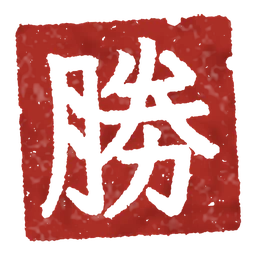
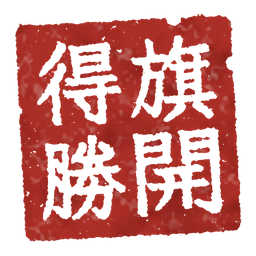
feat(art): 朱砂印由單字改為 2–4 字詞語
- build_ink_stamps.py：支援三字／四字印版式（右行先讀，四字田字格）；25 款印重出
- inkAssets：印鍵 → 印面詞語（SEALS、sealPhrase），無障礙文字讀出詞語
- 新印鍵「破」（境界突破：更上層樓）、「傷」（重傷：傷筋動骨）
- 特效時刻／突破印放大以容納四字
- tests：核對產生器同 inkAssets 詞語一致、字數 2–4

Story: 印章詞語化（用戶要求：減少 AI 感）

Claude-Session: https://claude.ai/code/session_01GsCU8xUdSu1ojNzfMHx3eE

Changed region(s): [[0.125, 0.125, 0.875, 0.875]]

diff --git a/src/ui/inkAssets.ts b/src/ui/inkAssets.ts
@@ -14,43 +14,53 @@ export function inkArtUrl(pathUnderInk: string): string {
   return `${base}ink/${cleaned}?v=art1`;
 }
 
-/** 印文 → 檔名 id（`public/ink/art/seals/seal-{id}.webp`） */
-const SEAL_ID_BY_TEXT: Readonly<Record<string, string>> = {
-  生: 'sheng',
-  終: 'zhong',
-  緣: 'yuan',
-  江湖: 'jianghu',
-  招: 'zhao',
-  勝: 'sheng-win',
-  命: 'ming',
-  危: 'wei',
+/**
+ * 印鍵（store 嘅 sealText／各元件用嘅一字代號）→ 印面詞語（2–4 字）＋檔名 id。
+ * 印面係完整詞語，唔再係單字（`scripts/art/build_ink_stamps.py` SEALS 同步）。
+ */
+const SEALS: Readonly<Record<string, { id: string; phrase: string }>> = {
+  生: { id: 'sheng', phrase: '人生初度' },
+  終: { id: 'zhong', phrase: '塵緣已了' },
+  緣: { id: 'yuan', phrase: '緣定三生' },
+  江湖: { id: 'jianghu', phrase: '笑傲江湖' },
+  招: { id: 'zhao', phrase: '一氣呵成' },
+  勝: { id: 'sheng-win', phrase: '旗開得勝' },
+  命: { id: 'ming', phrase: '命懸一線' },
+  危: { id: 'wei', phrase: '險象環生' },
   // 落印全集（store slices 嘅 sealText）
-  定: 'ding',
-  劍: 'jian',
-  戰: 'zhan',
-  敗: 'bai',
-  武: 'wu',
-  遁: 'dun',
-  宗: 'zong',
-  收: 'shou',
-  教: 'jiao',
-  晉: 'jin',
-  月: 'yue',
-  煉: 'lian',
-  裝: 'zhuang',
-  // 部位傷勢
-  殘: 'can',
-  癒: 'yu',
+  定: { id: 'ding', phrase: '落子無悔' },
+  劍: { id: 'jian', phrase: '華山論劍' },
+  戰: { id: 'zhan', phrase: '狹路相逢' },
+  敗: { id: 'bai', phrase: '技不如人' },
+  武: { id: 'wu', phrase: '得窺門徑' },
+  遁: { id: 'dun', phrase: '全身而退' },
+  宗: { id: 'zong', phrase: '開宗立派' },
+  收: { id: 'shou', phrase: '廣納門徒' },
+  教: { id: 'jiao', phrase: '傳道授業' },
+  晉: { id: 'jin', phrase: '聲名鵲起' },
+  月: { id: 'yue', phrase: '歲月如流' },
+  煉: { id: 'lian', phrase: '精益求精' },
+  裝: { id: 'zhuang', phrase: '披掛上陣' },
+  // 特效時刻
+  破: { id: 'po', phrase: '更上層樓' },
+  傷: { id: 'shang', phrase: '傷筋動骨' },
+  殘: { id: 'can', phrase: '傷及根本' },
+  癒: { id: 'yu', phrase: '妙手回春' },
 };
 
-/** 已有位圖的印文 */
-export const INK_SEAL_TEXTS = Object.keys(SEAL_ID_BY_TEXT);
+/** 已有位圖的印鍵 */
+export const INK_SEAL_TEXTS = Object.keys(SEALS);
 
-/** 印文 → 朱砂印 WebP URL；無對應則回 null（呼叫端沿用 CSS 字印） */
+/** 印鍵 → 朱砂印 WebP URL；無對應則回 null（呼叫端沿用 CSS 字印） */
 export function sealUrlForText(text: string | null | undefined): string | null {
   if (!text) return null;
-  const id = SEAL_ID_BY_TEXT[text];
-  return id ? inkArtUrl(`art/seals/seal-${id}.webp`) : null;
+  const seal = SEALS[text];
+  return seal ? inkArtUrl(`art/seals/seal-${seal.id}.webp`) : null;
+}
+
+/** 印鍵 → 印面詞語（無障礙文字用）；無對應回原字 */
+export function sealPhrase(text: string): string {
+  return SEALS[text]?.phrase ?? text;
 }
 
 /** 戰鬥用印（連招／勝／命懸／危） */

diff --git a/tests/inkSilhouettes.test.ts b/tests/inkSilhouettes.test.ts
@@ -1,4 +1,4 @@
-import { existsSync } from 'node:fs';
+import { existsSync, readFileSync } from 'node:fs';
 import { describe, expect, it } from 'vitest';
 import {
   FOE_SILHOUETTE_KEYS,
@@ -49,6 +49,21 @@ describe('seal coverage', () => {
     }
     for (const t of INK_SEAL_TEXTS) {
       expect(existsSync(fileOf(sealUrlForText(t)!)), t).toBe(true);
+    }
+  });
+
+  it('seal phrases are 2–4 chars and match the generator script', async () => {
+    const { sealPhrase, sealUrlForText, INK_SEAL_TEXTS } = await import('../src/ui/inkAssets');
+    const script = readFileSync('scripts/art/build_ink_stamps.py', 'utf8');
+    const generated = new Map(
+      [...script.matchAll(/\("([\w-]+)", "([^"]+)", "(?:zhuwen|baiwen)"/g)].map((m) => [m[1], m[2]] as const),
+    );
+    for (const t of INK_SEAL_TEXTS) {
+      const phrase = sealPhrase(t);
+      expect([...phrase].length, t).toBeGreaterThanOrEqual(2);
+      expect([...phrase].length, t).toBeLessThanOrEqual(4);
+      const id = sealUrlForText(t)!.match(/seal-([\w-]+)\.webp/)![1]!;
+      expect(generated.get(id), t).toBe(phrase);
     }
   });
 });

diff --git a/src/components/ink/InkDecor.tsx b/src/components/ink/InkDecor.tsx
@@ -1,6 +1,6 @@
 /** 宣紙底圖、朱砂印、事件橫幅 — 全為 WebP 位圖（無 SVG 手繪） */
 import type { InkPlace, InkSeason } from './sceneVariants';
-import { sealUrlForText } from '../../ui/inkAssets';
+import { sealPhrase, sealUrlForText } from '../../ui/inkAssets';
 import { inkAiUrl } from '../../ui/inkAiCatalog';
 
 /** 裝飾用位圖：外層 span 承接尺寸／動畫 class，內層 img 撐滿 */
@@ -68,7 +68,7 @@ export function InkSealStamp({
   return (
     <div className="ink-seal-overlay" onAnimationEnd={() => onDone?.()} aria-live="polite">
       {sealSrc ? (
-        <img className="ink-seal-stamp ink-seal-stamp--img" src={sealSrc} alt={text} decoding="async" />
+        <img className="ink-seal-stamp ink-seal-stamp--img" src={sealSrc} alt={sealPhrase(text)} decoding="async" />
       ) : (
         <span className="ink-seal-stamp">{text}</span>
       )}

diff --git a/src/components/ink/InkMomentFx.tsx b/src/components/ink/InkMomentFx.tsx
@@ -62,7 +62,7 @@ function viewOf(m: LifeMoment): View {
         return { variant: 'toast', kicker: '輕傷', name: part, sub: effect, seal: '', lifeMs: 1800 };
       }
       if (m.tier === 'heavy') {
-        return { variant: 'wound', kicker: '身受重傷', name: `${part}重傷`, sub: effect, seal: '危', lifeMs: 1800 };
+        return { variant: 'wound', kicker: '身受重傷', name: `${part}重傷`, sub: effect, seal: '傷', lifeMs: 1800 };
       }
       return {
         variant: 'wound',

diff --git a/src/components/ink/InkBreakthroughModal.tsx b/src/components/ink/InkBreakthroughModal.tsx
@@ -20,7 +20,7 @@ export function InkBreakthroughModal({ result, onClose }: Props) {
   const cls = (base: string, stillCls?: string) => stillClassName(base, stillCls, still);
   const ok = result.success;
   const bigText = ok ? (result.newTierName ?? result.oldTierName) : '走火入魔';
-  const seal = sealUrlForText(ok ? '晉' : '危');
+  const seal = sealUrlForText(ok ? '破' : '危');
 
   useEffect(() => {
     const onKey = (e: KeyboardEvent) => {

diff --git a/src/styles.css b/src/styles.css
@@ -6806,10 +6806,10 @@ html[data-ink-motion='reduce'] .ink-combat-slash {
 /* 落印：寫完字先蓋 */
 .ink-moment__seal {
   position: absolute;
-  right: -18px;
-  bottom: -14px;
-  width: 64px;
-  height: 64px;
+  right: -26px;
+  bottom: -20px;
+  width: 80px;
+  height: 80px;
   animation: sealPress var(--motion-slow) var(--ease-stamp) calc(var(--motion-base) + var(--motion-slow)) both;
 }
 

diff --git a/src/components/ink/InkBreakthroughModal.module.css b/src/components/ink/InkBreakthroughModal.module.css
@@ -207,10 +207,10 @@
 /* 印：大字寫完先壓落，留喺字腳 */
 .seal {
   position: absolute;
-  right: -58px;
-  bottom: -6px;
-  width: 58px;
-  height: 58px;
+  right: -76px;
+  bottom: -10px;
+  width: 72px;
+  height: 72px;
   animation: bkSealPress var(--motion-slow) var(--ease-stamp) calc(var(--motion-base) + var(--motion-slow)) both;
 }
 

diff --git a/scripts/art/build_ink_stamps.py b/scripts/art/build_ink_stamps.py
@@ -79,7 +79,8 @@ def roughen(mask: Image.Image, rng: random.Random, amount: float, blur: float = 
 
 
 def glyph_mask(font_path: str, text: str, box: tuple[int, int, int, int], weight: int = 0) -> Image.Image:
-    """把字（可多字，直排右起）塞滿 box；weight>0 加粗（刀刻白文較肥）。"""
+    """把字（1–4 字，直排右起）塞滿 box；weight>0 加粗（刀刻白文較肥）。
+    版式跟傳統印：兩字左右分行；三字右行一字拉長、左行兩字；四字「田」字格（右行上下、再左行上下）。"""
     x0, y0, x1, y1 = box
     bw, bh = x1 - x0, y1 - y0
     canvas = Image.new("L", (WORK, WORK), 0)
@@ -91,8 +92,20 @@ def glyph_mask(font_path: str, text: str, box: tuple[int, int, int, int], weight
         mid = x0 + bw // 2
         gap = int(bw * 0.04)
         slots = [(mid + gap, y0, x1, y1), (x0, y0, mid - gap, y1)]
+    elif len(chars) in (3, 4):
+        mid_x = x0 + bw // 2
+        mid_y = y0 + bh // 2
+        gx, gy = int(bw * 0.03), int(bh * 0.03)
+        right_top = (mid_x + gx, y0, x1, mid_y - gy)
+        right_bot = (mid_x + gx, mid_y + gy, x1, y1)
+        left_top = (x0, y0, mid_x - gx, mid_y - gy)
+        left_bot = (x0, mid_y + gy, mid_x - gx, y1)
+        if len(chars) == 3:
+            slots = [(mid_x + gx, y0, x1, y1), left_top, left_bot]
+        else:
+            slots = [right_top, right_bot, left_top, left_bot]
     else:
-        raise ValueError("最多兩字")
+        raise ValueError("印文最多四字")
 
     for ch, (sx0, sy0, sx1, sy1) in zip(chars, slots):
         sw, sh = sx1 - sx0, sy1 - sy0
@@ -104,7 +117,9 @@ def glyph_mask(font_path: str, text: str, box: tuple[int, int, int, int], weight
         # 印文字要撐滿格：保持比例放到最大，再沿短邊拉伸（單字 18%；雙字直排瘦長格可拉到 1.8 倍）
         gw, gh = g.size
         k = min(sw / gw, sh / gh)
-        stretch = 1.18 if len(chars) == 1 else 1.8
+        # 三字印右行單字格瘦長，同兩字一樣可拉長；四字方格只輕拉
+        tall = (sy1 - sy0) > (sx1 - sx0) * 1.4
+        stretch = 1.8 if tall else 1.18
         tw = min(sw, int(gw * k * (stretch if gw * k < sw else 1)))
         th = min(sh, int(gh * k * (stretch if gh * k < sh else 1)))
         g = g.resize((tw, th), Image.LANCZOS)
@@ -154,7 +169,7 @@ def make_seal(font: str, text: str, style: str, seed: int, tilt: float = 0.0) ->
         # 白文：實心朱底，字為留白
         block = rounded_rect(S, outer, radius=int(S * 0.035))
         inner = int(S * 0.15)
-        g = glyph_mask(font, text, (inner, inner, S - inner, S - inner), weight=7)
+        g = glyph_mask(font, text, (inner, inner, S - inner, S - inner), weight=7 if len(text) <= 2 else 5)
         body = ImageChops.subtract(block, g)
     else:
         # 朱文：朱字 + 朱框（框內留白）
@@ -258,32 +273,33 @@ def make_stroke(font: str, glyph: str, seed: int) -> Image.Image:
 # ----------------------------------------------------------------- main ---
 
 SEALS = [
-    # id, 印文, 樣式, 種子, 傾角
-    ("sheng", "生", "zhuwen", 11, -3.0),
-    ("zhong", "終", "baiwen", 12, 2.0),
-    ("yuan", "緣", "zhuwen", 13, -2.0),
-    ("jianghu", "江湖", "baiwen", 14, 0.0),
-    ("zhao", "招", "baiwen", 21, -4.0),
-    ("sheng-win", "勝", "baiwen", 22, 3.0),
-    ("ming", "命", "zhuwen", 23, -2.5),
-    ("wei", "危", "baiwen", 24, 4.0),
-    # 落印（sealText）全集補齊：果斷用白文、溫和用朱文
-    ("ding", "定", "baiwen", 31, -3.0),
-    ("jian", "劍", "baiwen", 32, 2.5),
-    ("zhan", "戰", "baiwen", 33, -4.0),
-    ("bai", "敗", "baiwen", 34, 3.5),
-    ("wu", "武", "baiwen", 35, -2.0),
-    ("dun", "遁", "baiwen", 36, 3.0),
-    ("zong", "宗", "zhuwen", 37, -2.5),
-    ("shou", "收", "zhuwen", 38, 2.0),
-    ("jiao", "教", "zhuwen", 39, -3.0),
-    ("jin", "晉", "zhuwen", 40, 2.5),
-    ("yue", "月", "zhuwen", 41, -2.0),
-    ("lian", "煉", "zhuwen", 42, 3.0),
-    ("zhuang", "裝", "zhuwen", 43, -3.5),
-    # 部位傷勢（design/gdd/injury-system.md）：傷殘用白文、醫好用朱文
-    ("can", "殘", "baiwen", 44, -3.5),
-    ("yu", "癒", "zhuwen", 45, 2.0),
+    # id（= src/ui/inkAssets.ts SEAL_ID_BY_TEXT 嘅值）, 印文（2–4 字成語／詞）, 樣式, 種子, 傾角
+    # 果斷、命運、受創用白文；溫和、成長用朱文
+    ("sheng", "人生初度", "zhuwen", 11, -3.0),
+    ("zhong", "塵緣已了", "baiwen", 12, 2.0),
+    ("yuan", "緣定三生", "zhuwen", 13, -2.0),
+    ("jianghu", "笑傲江湖", "baiwen", 14, 0.0),
+    ("zhao", "一氣呵成", "baiwen", 21, -4.0),
+    ("sheng-win", "旗開得勝", "baiwen", 22, 3.0),
+    ("ming", "命懸一線", "zhuwen", 23, -2.5),
+    ("wei", "險象環生", "baiwen", 24, 4.0),
+    ("ding", "落子無悔", "baiwen", 31, -3.0),
+    ("jian", "華山論劍", "baiwen", 32, 2.5),
+    ("zhan", "狹路相逢", "baiwen", 33, -4.0),
+    ("bai", "技不如人", "baiwen", 34, 3.5),
+    ("wu", "得窺門徑", "baiwen", 35, -2.0),
+    ("dun", "全身而退", "baiwen", 36, 3.0),
+    ("zong", "開宗立派", "zhuwen", 37, -2.5),
+    ("shou", "廣納門徒", "zhuwen", 38, 2.0),
+    ("jiao", "傳道授業", "zhuwen", 39, -3.0),
+    ("jin", "聲名鵲起", "zhuwen", 40, 2.5),
+    ("yue", "歲月如流", "zhuwen", 41, -2.0),
+    ("lian", "精益求精", "zhuwen", 42, 3.0),
+    ("zhuang", "披掛上陣", "zhuwen", 43, -3.5),
+    ("can", "傷及根本", "baiwen", 44, -3.5),
+    ("yu", "妙手回春", "zhuwen", 45, 2.0),
+    ("shang", "傷筋動骨", "baiwen", 46, 3.0),
+    ("po", "更上層樓", "zhuwen", 47, -2.5),
 ]
 
 AURAS = [

diff --git a/design/ux/motion-language.md b/design/ux/motion-language.md
@@ -72,8 +72,24 @@
 - CSS 模組（`*.module.css`）唔會自動食到全域設定：每個 `@media (prefers-reduced-motion)` 區塊都要再寫一份 `:global(html[data-ink-motion='reduce'])` 版本。
 - JS 計時器（例如落印清除、翻月 class 移除）要長過對應 CSS 時長，否則動畫會被中途截斷。
 
-## 5. 落印字全集
+## 5. 落印全集（印面係 2–4 字詞語）
 
-store 嘅 `sealText` 用到嘅字全部有朱砂印位圖（`public/ink/art/seals/`，`src/ui/inkAssets.ts` `SEAL_ID_BY_TEXT`）：
-生 終 緣 江湖 招 勝 命 危 定 劍 戰 敗 武 遁（白文為主）· 宗 收 教 晉 月 煉 裝（朱文）。
-新增 sealText 時要同步加印（`scripts/art/build_ink_stamps.py` SEALS），`tests/inkSilhouettes.test.ts` 會檢查。
+store 嘅 `sealText` 同特效用一字「印鍵」做代號，印面係完整詞語（`src/ui/inkAssets.ts` `SEALS`；位圖 `public/ink/art/seals/`）。
+四字印「田」字格、右行先讀；三字印右行一字、左行兩字。
+
+| 印鍵 | 印面 | 用喺 | 印鍵 | 印面 | 用喺 |
+|---|---|---|---|---|---|
+| 生 | 人生初度 | 出生 | 終 | 塵緣已了 | 死亡／總結 |
+| 定 | 落子無悔 | 選擇確認 | 月 | 歲月如流 | 過月 |
+| 戰 | 狹路相逢 | 開戰 | 勝 | 旗開得勝 | 得勝 |
+| 敗 | 技不如人 | 戰敗 | 遁 | 全身而退 | 逃走 |
+| 招 | 一氣呵成 | 連招 | 命 | 命懸一線 | 絕地 |
+| 危 | 險象環生 | 危急／突破失敗 | 劍 | 華山論劍 | 論劍開賽 |
+| 武 | 得窺門徑 | 學新武學 | 煉 | 精益求精 | 武學升階 |
+| 晉 | 聲名鵲起 | 稱號晉升 | 破 | 更上層樓 | 境界突破 |
+| 傷 | 傷筋動骨 | 重傷 | 殘 | 傷及根本 | 傷殘 |
+| 癒 | 妙手回春 | 醫殘 | 裝 | 披掛上陣 | 換裝 |
+| 宗 | 開宗立派 | 立派 | 收 | 廣納門徒 | 收徒 |
+| 教 | 傳道授業 | 傳功 | 緣／江湖 | 緣定三生／笑傲江湖 | 裝飾 |
+
+新增印要同步改 `scripts/art/build_ink_stamps.py` SEALS 同 `inkAssets.ts`；`tests/inkSilhouettes.test.ts` 會核對兩邊詞語一致、檔案存在、字數 2–4。
